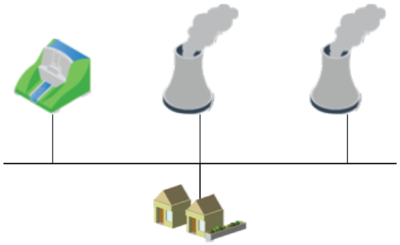
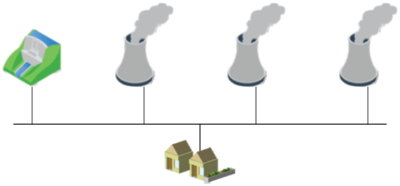
updates

diff --git a/README.md b/README.md
@@ -12,6 +12,14 @@ This toy example contains one hydro generator and three thermal generators with 
 <img src="./diagram.png" alt="toy example" width="400">
 </p>
 
+
+| Generator      | Capacity     |  Cost         | Vmax         | Prod. Factor  |
+| :------------- |:-------------| :-------------|:-------------|:-----|
+| Hydro          | 11           |  -            | 130          | 0.2  |
+| Thermo 1       | 5            |  8            | -            | -    |
+| Thermo 2 	     | 5            |  12           | -            | -    |
+| Thermo 3       | 20           |  15           | -            | -    |
+
 ## Contents
 
 ### ddp.py
